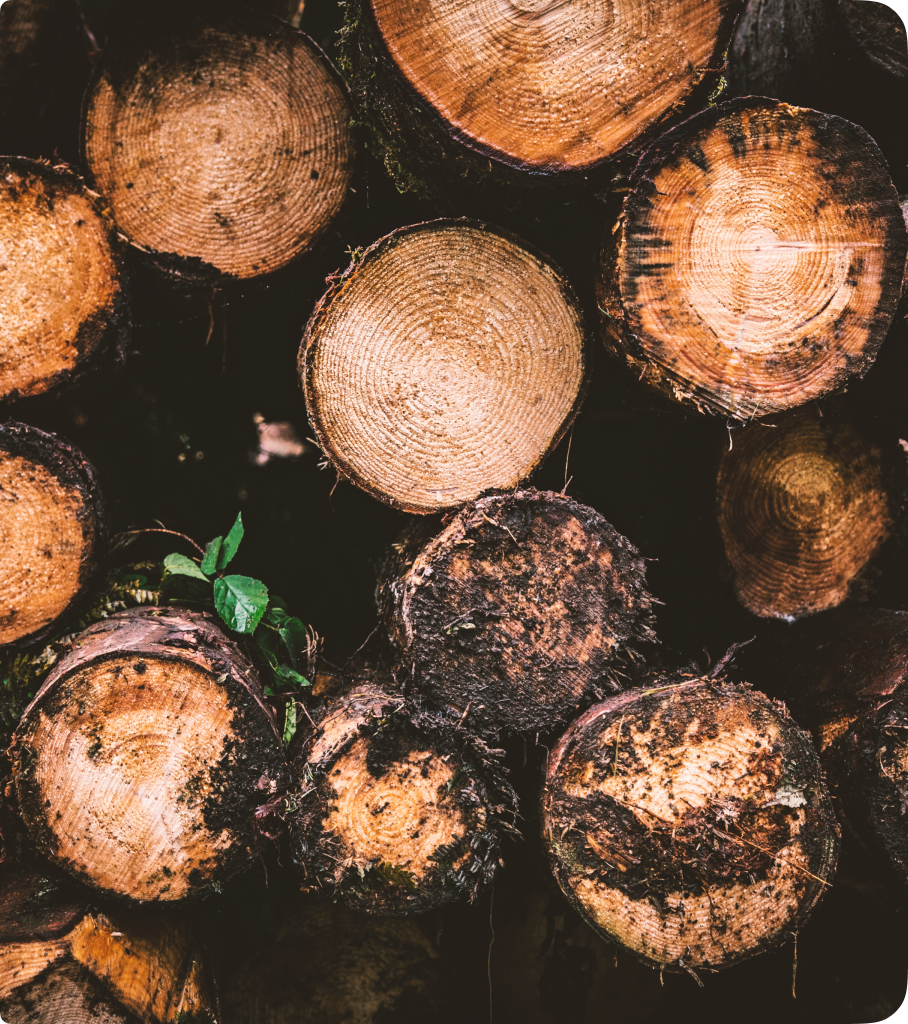
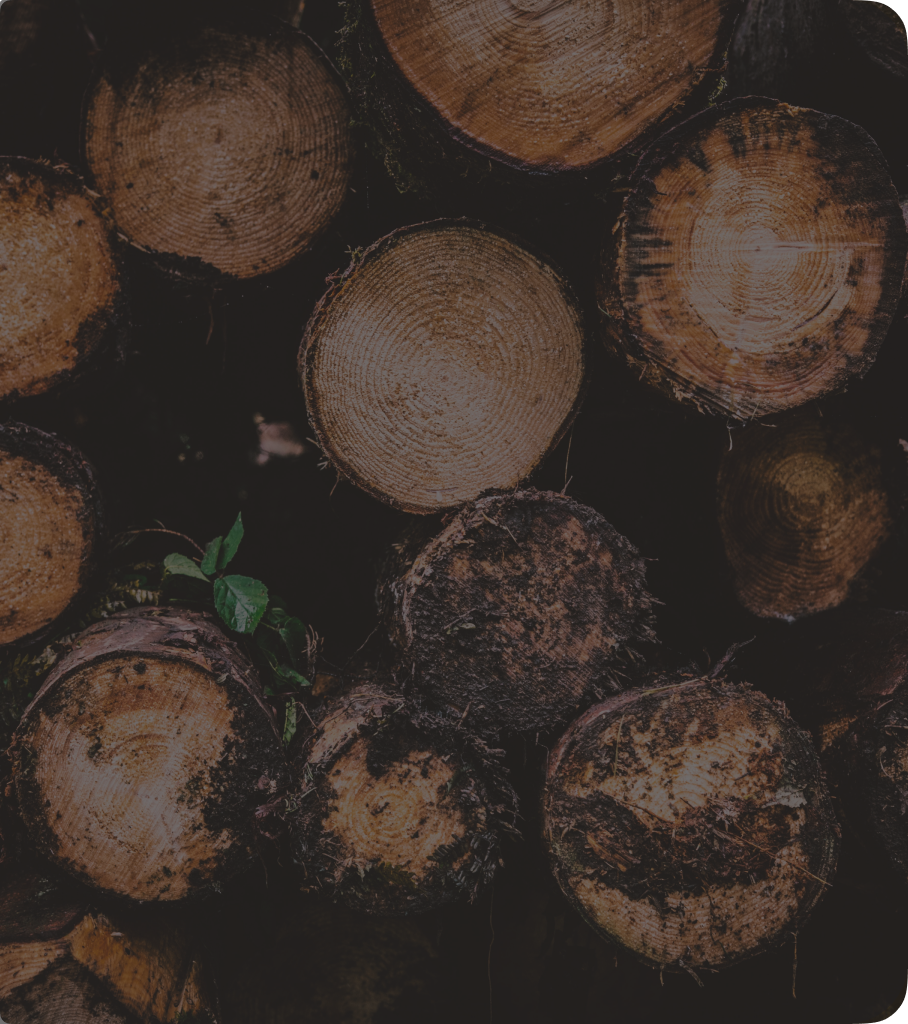
Wood Task Completetion

diff --git a/src/components/feature/errorScreen/template/index.js b/src/components/feature/errorScreen/template/index.js
@@ -4,13 +4,38 @@ import Wood from "./wood.png";
 import "./style.css";
 
 
-export default function errorTemplate(){
-    return(
-        <div style={{backgroundImage:`url(${Wood})`}} className="errorTemplate" >
-            <div style={{backgroundColor: `rgba(34, 32, 33, 0.65)`}}>
-            <Header></Header>
-            <HeroSection></HeroSection>
+export default function errorTemplate() {
+    return (
+
+        <div style={{ backgroundColor: `rgba(34, 32, 33, 0.95)`, position: 'relative' }} >
+            <div style={{ width: '530px' }} >
+                <svg width="1440" height="1024" viewBox="0 0 1434 1024" fill="none" xmlns="http://www.w3.org/2000/svg">
+                    <path d="M99.2499 0C132 25.8586 115.625 62.0605 1 77.5757" stroke="#F1DED0" stroke-opacity="0.29" stroke-width="0.5" stroke-linecap="round" />
+                    <path d="M230.25 0C290.291 38.7878 328.5 125.673 1 162.909" stroke="#F1DED0" stroke-opacity="0.29" stroke-width="0.5" stroke-linecap="round" />
+                    <path d="M557.75 0C530.458 67.2323 384.175 203.248 17.3751 209.454" stroke="#F1DED0" stroke-opacity="0.29" stroke-width="0.5" stroke-linecap="round" />
+                    <path d="M803.374 0C759.708 72.404 541.375 228.072 17.3751 271.515" stroke="#F1DED0" stroke-opacity="0.29" stroke-width="0.5" stroke-linecap="round" />
+                    <path d="M1098.12 0C934.374 87.9191 583.95 263.757 492.25 263.757C400.55 263.757 126.542 413.737 1 488.727" stroke="#F1DED0" stroke-opacity="0.29" stroke-width="0.5" stroke-linecap="round" />
+                    <path d="M1425.62 0C606.875 235.313 -696.574 769.551 639.625 1024" stroke="#F1DED0" stroke-opacity="0.29" stroke-width="0.5" stroke-linecap="round" />
+                    <path d="M1 915.392C28.2916 949.008 112.35 1017.79 230.25 1024" stroke="#F1DED0" stroke-opacity="0.29" stroke-width="0.5" stroke-linecap="round" />
+                    <path d="M1442 93.0914C754.251 307.717 -211.874 681.115 1425.63 457.697" stroke="#F1DED0" stroke-opacity="0.29" stroke-width="0.5" stroke-linecap="round" />
+                    <path d="M1425.63 170.668C1038.08 292.203 344.875 574.061 1425.63 395.637" stroke="#F1DED0" stroke-opacity="0.29" stroke-width="0.5" stroke-linecap="round" />
+                    <path d="M1425.62 511.999C765.166 548.201 -15.3746 713.696 852.499 1024" stroke="#F1DED0" stroke-opacity="0.29" stroke-width="0.5" stroke-linecap="round" />
+                    <path d="M1442 605.091C1016.25 628.363 213.875 651.636 950.75 1016.24" stroke="#F1DED0" stroke-opacity="0.29" stroke-width="0.5" stroke-linecap="round" />
+                    <path d="M1425.62 698.182C1109.04 705.94 492.249 659.394 1049 1024" stroke="#F1DED0" stroke-opacity="0.29" stroke-width="0.5" stroke-linecap="round" />
+                    <path d="M1425.62 767.999C1218.21 786.1 786.999 705.939 1163.62 1024" stroke="#F1DED0" stroke-opacity="0.29" stroke-width="0.5" stroke-linecap="round" />
+                    <path d="M1442 847.196C1303.22 861.228 1043 754.585 1268.52 1024" stroke="#F1DED0" stroke-opacity="0.29" stroke-width="0.5" stroke-linecap="round" />
+                    <path d="M1392.87 1024H1425.62" stroke="#F1DED0" stroke-opacity="0.29" stroke-width="0.5" stroke-linecap="round" />
+                </svg>
             </div>
+            <div style={{ backgroundImage: `url(${Wood})` }} className="errorTemplate" >
+                <Header></Header>
+                <HeroSection></HeroSection>
+
+            </div>
+
+
+
         </div>
+
     );
 }

diff --git a/src/components/feature/errorScreen/organism/heroSection/index.js b/src/components/feature/errorScreen/organism/heroSection/index.js
@@ -2,6 +2,23 @@ import HeroSectionContent from "../../molecules/content";
 export default function HeroSection(){
     return(
         <div className="d-flex flex-column justify-content-center align-items-center">
+            <svg width="1096" height="539" viewBox="0 0 1096 539" fill="none" xmlns="http://www.w3.org/2000/svg">
+<path d="M199.5 470V370.5H11V341L183 120H257V360.5H325V370.5H257V470H199.5ZM55 360.5H199.5V176L55 360.5Z" fill="#F5F5F5"/>
+<path d="M966.5 470V370.5H778V341L950 120H1024V360.5H1092V370.5H1024V470H966.5ZM822 360.5H966.5V176L822 360.5Z" fill="#F5F5F5"/>
+<path d="M548 477.5C518.333 477.5 491.667 469.833 468 454.5C444.667 438.833 426.5 417.167 413.5 389.5C400.5 361.5 394 330 394 295C394 259.667 400.5 228.167 413.5 200.5C426.5 172.833 444.667 151.333 468 136C491.667 120.333 518.333 112.5 548 112.5C577.667 112.5 604.167 120.333 627.5 136C650.833 151.333 669 172.833 682 200.5C695 228.167 701.5 259.667 701.5 295C701.5 330 695 361.5 682 389.5C669 417.167 650.833 438.833 627.5 454.5C604.167 469.833 577.667 477.5 548 477.5ZM548 425C566.667 425 583.167 419.667 597.5 409C611.833 398 623 382.667 631 363C639 343.333 643 320.667 643 295C643 269.333 639 246.667 631 227C623 207.333 611.833 192.167 597.5 181.5C583.167 170.5 566.667 165 548 165C529.333 165 512.833 170.5 498.5 181.5C484.167 192.167 473 207.333 465 227C457 246.667 453 269.333 453 295C453 320.667 457 343.333 465 363C473 382.667 484.167 398 498.5 409C512.833 419.667 529.333 425 548 425Z" fill="#F5F5F5"/>
+<path d="M475.5 387.5C479.167 377.5 500.1 353 550.5 343C600.9 333 630.667 265.5 638 235.5" stroke="#F5F5F5" stroke-width="4" stroke-linecap="round"/>
+<path d="M531.5 165.5C534.167 220.833 553.5 301.4 595.5 179" stroke="#F5F5F5" stroke-width="4" stroke-linecap="round"/>
+<path d="M545.5 165C551.833 199.5 568.1 249.2 582.5 172" stroke="#F5F5F5" stroke-width="4" stroke-linecap="round"/>
+<path d="M499.5 179.5C515.333 204 533.9 282.5 475.5 386.5" stroke="#F5F5F5" stroke-width="4" stroke-linecap="round"/>
+<path d="M484.5 191C498.667 228.5 515.8 318.6 467 369" stroke="#F5F5F5" stroke-width="4" stroke-linecap="round"/>
+<path d="M464 219.5C474 250.5 502 314 453.5 339" stroke="#F5F5F5" stroke-width="4" stroke-linecap="round"/>
+<path d="M521.5 168C522.167 252 540 375.7 604 186.5" stroke="#F5F5F5" stroke-width="4" stroke-linecap="round"/>
+<path d="M642.5 320C610.833 332.833 549.9 371.7 559.5 424.5" stroke="#F5F5F5" stroke-width="4" stroke-linecap="round"/>
+<path d="M634.5 360C610 360.167 562.6 372.5 581 418.5" stroke="#F5F5F5" stroke-width="4" stroke-linecap="round"/>
+<path d="M626 380.5C612.167 378.833 582.5 383.5 594.5 411.5" stroke="#F5F5F5" stroke-width="4" stroke-linecap="round"/>
+<path d="M515.5 424C500.5 402 516.6 386.2 555 357C603 320.5 630 322.5 644.5 268" stroke="#F5F5F5" stroke-width="4" stroke-linecap="round"/>
+</svg>
+
         <HeroSectionContent></HeroSectionContent>
         </div>
     );

diff --git a/src/components/feature/errorScreen/molecules/content/index.js b/src/components/feature/errorScreen/molecules/content/index.js
@@ -1,9 +1,11 @@
 import Text from "../../atom/Text";
 import Button from "../../../../core/atom/Button";
+import Text1 from "../../../../core/atom/Text";
 import "../../../../core/style.css";
 import "../../molecules/style.css";
 export default function HeroSectionContent(){
     return(<>
+     <Text1 text="WOOPS" textDesigin="mb-4 new-font"></Text1>
     <Text text="Oh, you must be lost,there is no such page." textDesigin="mb-5 bold-30-fam2"></Text>
     <Button btnDesign="bold-30-fam2 homebtn" text="Go to the home page"></Button>
     </>);

diff --git a/src/components/feature/errorScreen/template/style.css b/src/components/feature/errorScreen/template/style.css
@@ -1,7 +1,11 @@
 .errorTemplate{
 
     background-repeat: no-repeat;
-    background-position: center;
-    background-size: cover;
-    position: relative;
+    /* background-position: center;
+    background-size: cover; */
+    position: absolute;
+    top:0%;
+    bottom: 0%;
+    width:100%;
+    /* background-size: 908px 100vh; */
 }

diff --git a/src/components/core/style.css b/src/components/core/style.css
@@ -35,6 +35,12 @@
 .btn-color {
   background: #728bad;
 }
-.btn-rad-42{
-    border-radius: 42px;
+.btn-rad-42 {
+  border-radius: 42px;
+}
+.new-font {
+  font-style: normal;
+  font-weight: 500;
+  font-size: 90px;
+  line-height: 107.9%;
 }

diff --git a/src/components/feature/errorScreen/molecules/style.css b/src/components/feature/errorScreen/molecules/style.css
@@ -2,5 +2,5 @@
     padding:11px 70px;
     width: 444px;
     border:none;
-    margin-bottom: 100vh;
+    margin-bottom: 85px;
 }
